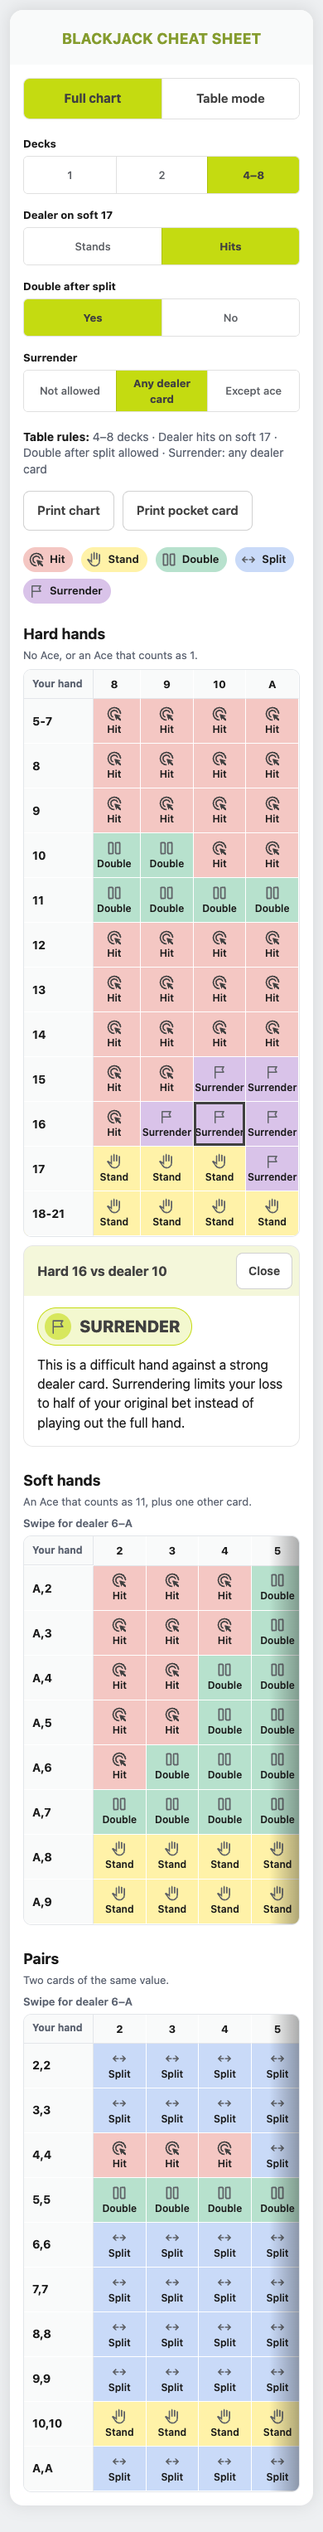
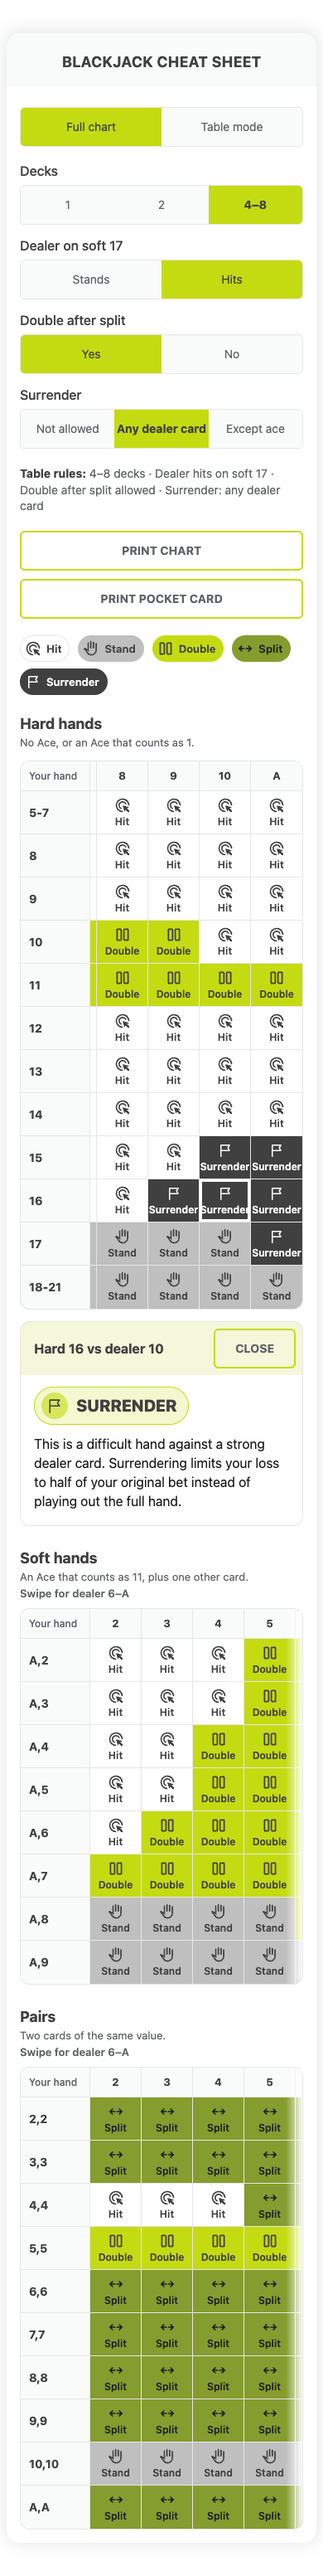
S-21 (QA): 12/12 checks incl. visual vs Figma side-by-sides; check 5 PDF flag bug fixed (reviewed PASS, G3 pending)

diff --git a/docs/qa/2026-10-05-qa.md b/docs/qa/2026-10-05-qa.md
@@ -97,3 +97,53 @@ No high or medium failures.
 - /Users/mariussolis/blackjack-cheat-sheet/docs/qa/screenshots/table-mode-result-1280.png
 - /Users/mariussolis/blackjack-cheat-sheet/docs/qa/screenshots/rules-changed-390.png (new: Decks 4-8 -> 1, "17 moves changed", cells marked, swipe hint + fade visible)
 - /Users/mariussolis/blackjack-cheat-sheet/docs/qa/screenshots/rules-changed-1280.png (new)
+
+---
+
+## Re-run after S-21 (visual sync) (2026-10-05, 20:46-20:50 local, HEAD f381819)
+
+Script: `node docs/qa/qa-run.mjs` (default QA_TABLE_CLICKS=one, about 4 min, exit code 0). Real Chrome, file://, 0 console messages, 0 page errors, 74 requests all the one file. Checks 1-12 all PASS (check 12: automated part passes, visual verdicts below).
+
+| # | Check | Result | Evidence |
+|---|---|---|---|
+| 1 | 36 sets by real clicks, 10,800 cells == snapshot | PASS | 0 mismatches |
+| 2 | Table mode == chart | PASS | 350 by clicks + 12,600 via UI functions, 0 mismatches |
+| 3 | Reason panel | PASS | unchanged |
+| 4 | My-table link | PASS | unchanged |
+| 5 | Print | PASS | 144 PDFs, 1 page each (A4/Letter, full/pocket); PDF text confirms intended layout in all 144 (see bug fix); 4 preferCSSPageSize PDFs also 1 page and right layout |
+| 6 | Layout 390/1280 | PASS | scrollWidth == innerWidth in all states; no tap target under 44px at 390 or 1280 |
+| 7 | Console + network | PASS | 0 messages, only the file URL |
+| 8 | Keyboard + a11y | PASS | 11 Tab stops, focus indicator on each (new 3px ring), arrows, table mode by keyboard |
+| 9 | Scroll cue | PASS | 390: hint + 20px fade on all 3 tables (box 340/704), fade not over pinned column, tap through fade works; gone at end, back on return; none at 1280 |
+| 10 | Calculator link | PASS | 308x54 at 390, 373x44 at 1280 |
+| 11 | What your rules change | PASS | see below |
+| 12 | Visual vs Figma | PASS (see verdicts) | 8 side-by-sides built |
+
+### Script changes (S-21)
+- Check 11: badge counting replaced. For every one of the 216 real-click transitions, each cell with data-changed (count == snapshot diff, exact cells) must have a 2px dashed inner outline, a 12x12px ::after triangle (clip-path polygon) and colour #1a1d22 (white on Surrender cells), no "Changed" text in any chart cell, and all 30 rows 52px high. Also asserted on first load (rows 52px) and in both rules-changed screenshots (17 marked, 17 styled, rows 52px). All other check-11 assertions kept (counts vs snapshot, wording incl. singular, aria text, dismiss, replace, ?query, table-mode "Changed for your new rules" marker, print clean). Print: now also reads the text out of the PDFs themselves (no "changed" in either).
+- Check 5 bug fix: page.pdf() fires afterprint, which clears html[data-print]. The flag is now set right before EACH pdf() call (full and pocket, A4 and Letter, and the preferCSSPageSize calls). New assertion reads the text from each PDF (built-in minimal extractor for Chrome Type3 fonts, no dependency): rules sentence == snapshot label; pocket has "H Hit · S Stand" and the fold-line text and no word key; full has "Your hand" + word key and no pocket legend. 144/144 correct.
+- Earlier results affected? Yes, partly. In the previous script the flag was set once per mode, so the second pdf() call of each mode (Letter) ran with the flag cleared. Checking the old saved PDFs (36-set run, HEAD 1a0410c era) with the extractor: pocket-Letter PDFs contained the FULL sheet layout, not the pocket card (full-Letter happened to be right because the flag was still set). So the earlier "144 PDFs, 1 page" PASS did not prove pocket-Letter. Now verified for real: pocket Letter (landscape) and all others are the intended layout and 1 page. The same flaw hit the preferCSSPageSize loop; also fixed.
+- Other style expectations updated: none needed (check 8 focus-ring test and cell-aria regex still pass unchanged; the title contrast re-check now reads #404040 on #f9fafa = 9.92:1, F2 closed). Check 12 added; screenshots refreshed.
+
+### Check 11 detail
+216 transitions (min 1, max 17 changed cells, 16 singular), 0 mismatches; first/?query load no markers; dismiss and replace OK; table mode 3 x 350 pairs (17/7/3 changed) 0 mismatches; print full + pocket with a diff showing: no "changed" text in rendered print or in the PDF text, no visible marker element, 1 page each.
+
+### Check 12 visual verdicts (prototype LEFT, Figma RIGHT; accepted D-078/D-079 differences ignored: font fallback, hyphen row labels "5-7", dash pattern, toggle grey)
+- default-chart 1280 and 390: PASS. Same order, colours, move palette, legend pills, buttons (uppercase lime outline), row height and pinned column. Prototype system-font text is slightly wider (390: "Table rules" line wraps to 3 lines vs 2 on the table-mode screen, see below); prototype legend/print-button boxes about 2px larger.
+- reason-panel 1280 and 390: PASS. Hard 16 vs 10 panel opens under the Hard table, tinted header, CLOSE button, Surrender pill, text and order identical. 1-3px vertical offsets only.
+- rules-changed 1280 and 390: PASS. 17 changed cells with dashed inner outline + corner triangle, white on Surrender, count line with DISMISS, rows stay 52px. Prototype shows the dashed outline slightly bolder than Figma (dash pattern, accepted).
+- table-mode-result 1280 and 390: PASS. Hand/dealer buttons, selected lime 16 and 10, Recommended Play card, Surrender row and Calculator link match. At 390 the "Table rules" sentence wraps to 3 lines in the prototype (2 in Figma) and the prototype crop is 30px shorter overall.
+Crop note: each side is the full tool area cropped from the prototype page (40px margin at 1280, 8px at 390); Figma PNGs are used as exported.
+
+## Findings (S-21 re-run)
+| ID | Severity | Finding |
+|---|---|---|
+| F7 | info | Height differs from Figma by 15-72px: prototype is shorter in 7 of 8 screens (e.g. 390 default chart 2797 vs 2850), taller only in table-mode 1280 (1151 vs 1138). Font fallback, D-079. No action. |
+| F8 | info | Old QA script printed a false-clean pocket-Letter result (flag cleared by afterprint); fixed in the script. Not a product bug. |
+| F2 | closed | Title contrast now 9.92:1. |
+
+No high, medium or low failures.
+
+## Screenshots
+- /Users/mariussolis/blackjack-cheat-sheet/docs/qa/screenshots/ (default-chart, reason-panel, table-mode-result, rules-changed; 390 and 1280; refreshed)
+- /Users/mariussolis/blackjack-cheat-sheet/docs/qa/visual/{default-chart,reason-panel,rules-changed,table-mode-result}-{1280,390}-side-by-side.png

diff --git a/docs/stories/S-21-visual-sync.md b/docs/stories/S-21-visual-sync.md
@@ -1,6 +1,6 @@
 # S-21 — Prototype looks like the signed-off Figma (tool only, no logic change)
 
-State: approved · Agent: ui-dev, then qa-tester (separate step) · Goal served: 2 (usable at the table: readable, printable chart) · Gate: G3 (visual sign-off)
+State: reviewed (G3 pending) · Agent: ui-dev, then qa-tester (separate step) · Goal served: 2 (usable at the table: readable, printable chart) · Gate: G3 (visual sign-off)
 
 ## Why
 Figma was signed off at G4 (D-074/075), but the prototype still has the older look (olive title, 9px "Changed" badge, grey toggle text). D-076 asks the prototype to match Figma exactly in look, with no change in behaviour, so Marius can approve the visuals (G3) before Codex review, push and the S-15 handoff.
@@ -48,4 +48,8 @@ Write list additions (D-079): prototype/build.js (icon mask inlining), test/prin
 | 4 | Pass | Only CSS/markup (+ chg span removed, build.js icon mask); HEAD vs new build through node:vm: 34,582 outputs, 0 differences; `npm run check` 121/121; style-only assertion edits listed (prototype.test.js ×2, g3-fixes.test.js, print.test.js) |
 
 Builder part: PASS (story-reviewer + Lead, 2026-10-05); ACs 5–6 pending QA. QA note: set html[data-print] before EACH page.pdf() (afterprint clears it).
+| 5 | Pass | QA re-run at f381819: 12/12 PASS, exit 0 (qa-tester + reviewer re-run); check 5 fixed (flag set before each pdf, layout read from PDF text) — earlier pocket-Letter results had printed the full sheet, now proven for all 144; check 11 new marker + 52px rows, 216 transitions 0 mismatches |
+| 6 | Pass | 8 side-by-sides in docs/qa/visual/ (prototype left, Figma right) with per-screen notes; Lead viewed rules-changed-1280, table-mode-result-390, reason-panel-390 |
+
+Overall: PASS (story-reviewer + Lead, 2026-10-05), G3 visual pending. Open for G3: 390 reason panel — prototype scrolls the table to the tapped column (8–A, by design since S-10) while Figma shows 2–5; "Surrender" is cramped in 62px cells at 390 with the fallback font.
 

diff --git a/docs/backlog.md b/docs/backlog.md
@@ -44,7 +44,7 @@ Defaults on load: 4–8 decks · dealer hits soft 17 · DAS allowed · surrender
 ## Follow-ups
 | ID | Story (one output) | Agent | Goal | Gate | State |
 |---|---|---|---|---|---|
-| S-21 | Prototype full visual sync with the signed-off Figma (D-076): tokens, palette, typography/spacing, buttons, 52px changed marker, light outline on dark cells, print styling; tool only; no logic change; QA re-run + visual check vs Figma → G3 visual | ui-dev + qa-tester | 2 | G3 | in progress |
+| S-21 | Prototype full visual sync with the signed-off Figma (D-076): tokens, palette, typography/spacing, buttons, 52px changed marker, light outline on dark cells, print styling; tool only; no logic change; QA re-run + visual check vs Figma → G3 visual | ui-dev + qa-tester | 2 | G3 | reviewed (G3 pending) |
 
 ## v2 (next version, not now)
 - "Learn this chart": memory rules for the player's chart (D-051).
